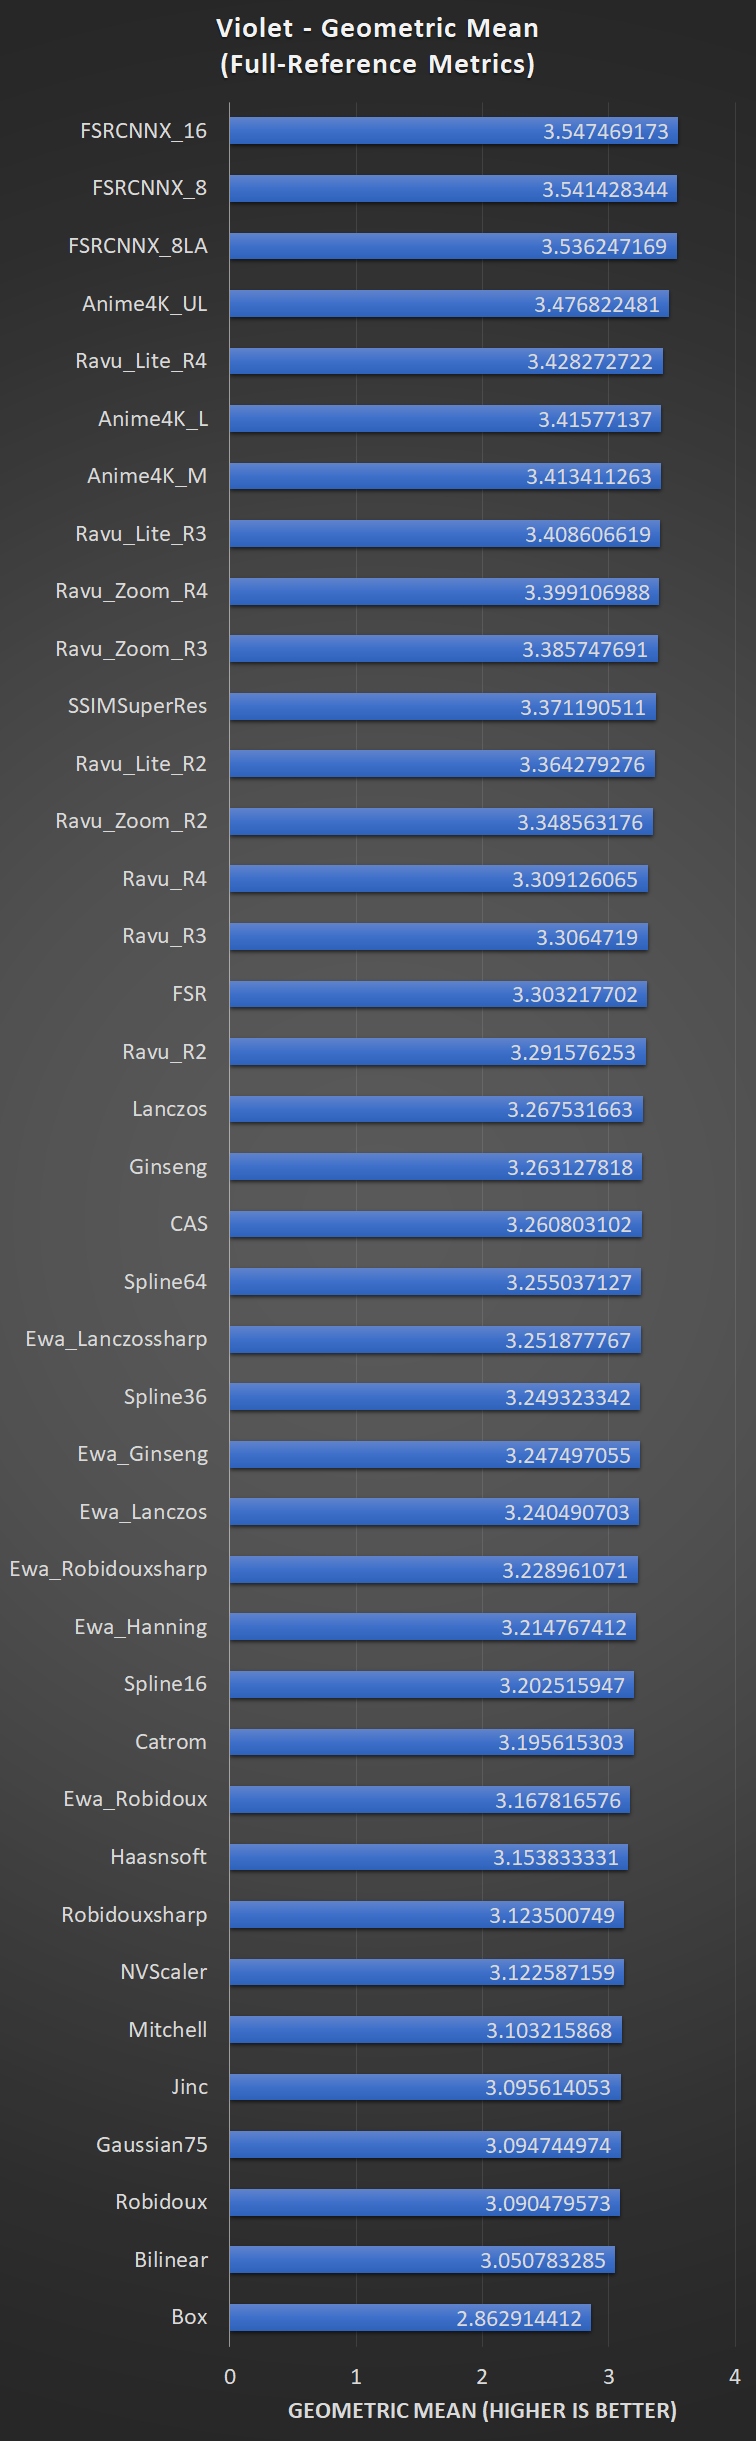
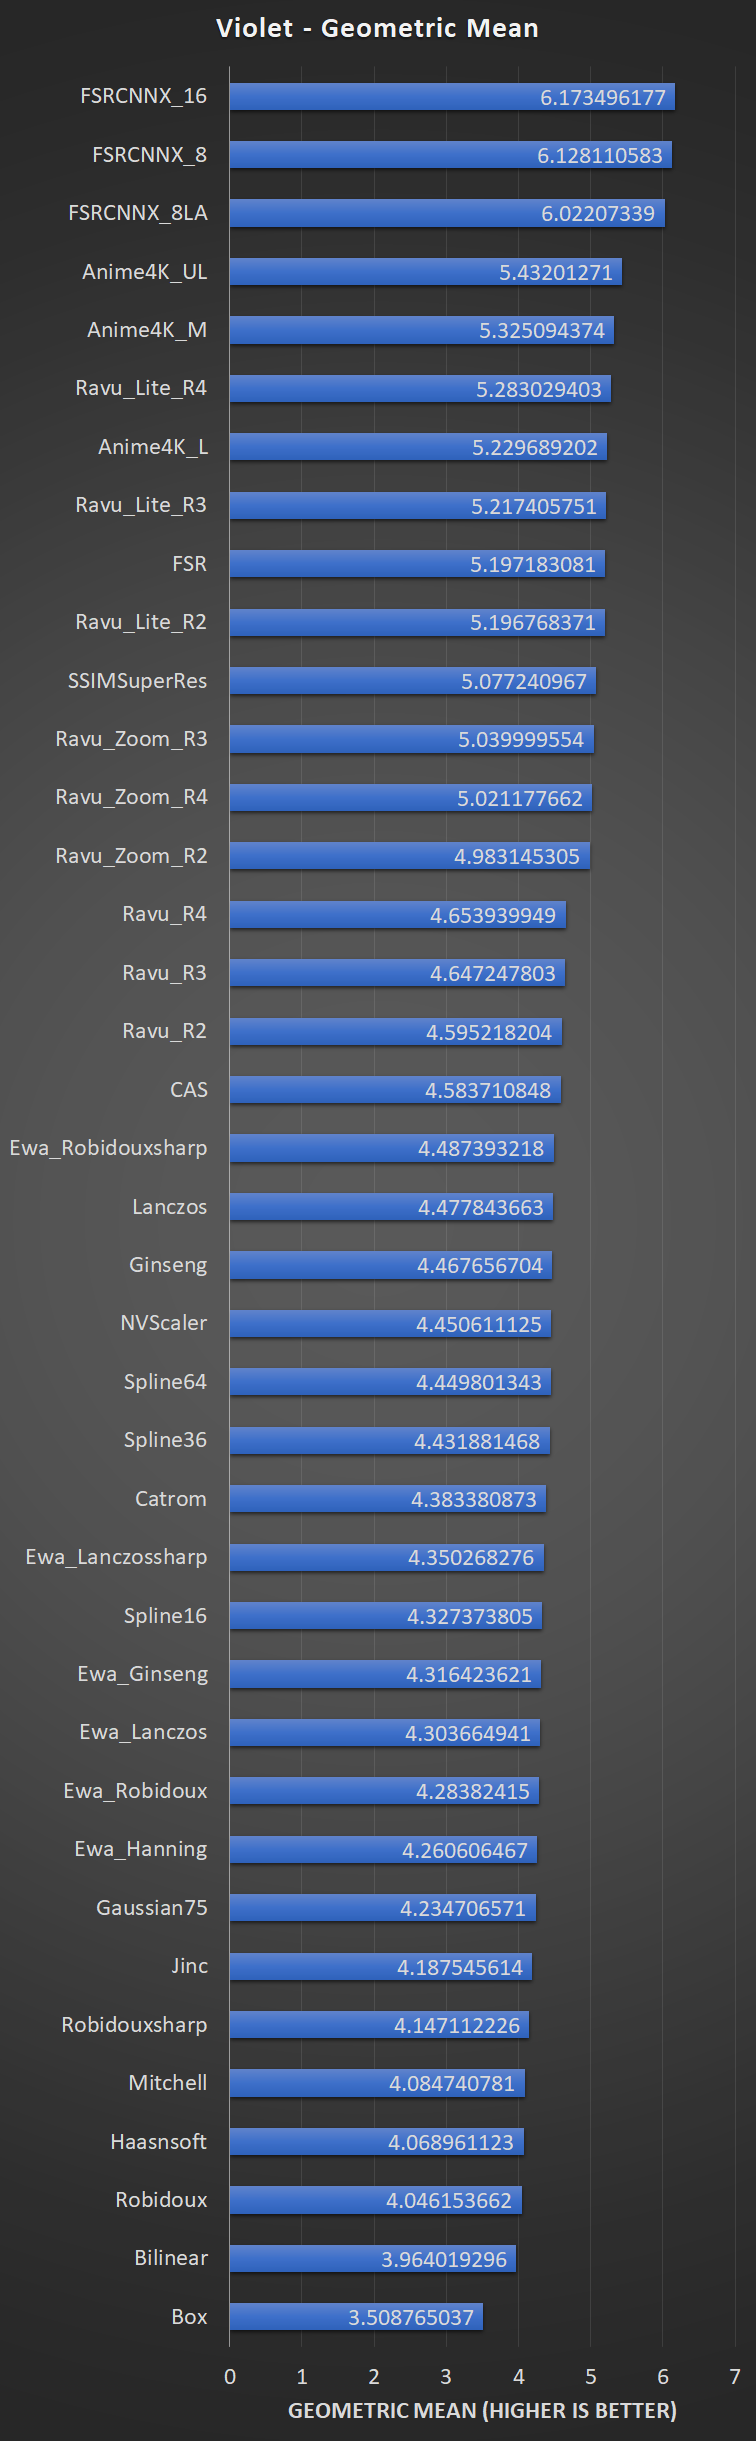
replacing NIQE with LPIPS

diff --git a/blog/mpv_upscaling.html b/blog/mpv_upscaling.html
@@ -48,9 +48,7 @@
             Like its name implies, upscaling is simply the act of increasing the scale of something. In the digital signal processing case, 
             taking discrete information in a given scale and calculating points between the existing samples. 
             The easiest and most classic way of doing this is through simple linear interpolation, if you want to find a value between two points you can simply draw a
-            line between them and linearly find any value in this line. If you wanted to find the value that's placed exactly
-            in the middle of those 2 discrete points, you could simply do an arithmetic mean with their values to find your
-            answer.
+            line between them. 
         </p>
         <p>
             Linear interpolation can be done in a plane, through both axis, creating what we call "bilinear" interpolation. Bilinear
@@ -66,7 +64,7 @@
         <p>
             A relatively simple way of taking more information into consideration is fitting a curve into more than 2 discrete points. If we connect 2 points directly and only have their values 
             to work with our end result is always going to be a straight line connecting both, but if we can also look at the other neighbouring elements we might be able to fit actual curves and 
-            therefore calculate the in-between points more accuraterly. This is implemented through convolution, using a specific kernel that represents a corresponding filter. 
+            therefore calculate the in-between points more accuraterly.
         </p>
         <p>
             <img src="./images/mpv_upscaling/interpolation.png" alt="upscaling" class="center">
@@ -104,15 +102,18 @@
             <li><a href="https://github.com/bjin/mpv-prescalers">RAVU</a></li>
             <li><a href="https://github.com/igv/FSRCNN-TensorFlow">FSRCNNX</a></li>
             <li><a href="https://github.com/bloc97/Anime4K">Anime4K</a></li>
+            <li><a href="https://gist.github.com/agyild/7e8951915b2bf24526a9343d951db214">NVScaler</a></li>
+            <li><a href="https://gist.github.com/agyild/bbb4e58298b2f86aa24da3032a0d2ee6">CAS</a></li>
+            <li><a href="https://gist.github.com/agyild/82219c545228d70c5604f865ce0b0ce5">FSR</a></li>
         </p>
         
         <h3 id="methodology">Testing methodology</h3>
-        <p>
+        <!--<p>
             Performance measurements were done upscaling an animation video encoded into 8bit AVC from 1280x720 to 2560x1440. Utilising mpv
             with a benchmarking profile, all settings from profile=gpu-hq, with Vulkan as the renderer and hardware decoding turned off. The machine used has
             an Ivy Bridge i5 3470, a Polaris RX 470 and user shaders were always compute shaders when possible. The methodology consists of letting mpv play the file for 4 seconds 
             and then seeing at which frame it stopped. 
-        </p>
+        </p>-->
         <p>
             Quality measurements were done with an anime test image. Debanding was turned off to prevent loss of fine detail.
         </p>
@@ -133,7 +134,7 @@
             "Remain as faithful to the original while enhancing details" configuration.
         </p>
         <p>
-            Since mpv writes PNGs in the rgb24 format, all screenshots were converted to greyscale using imagemagick as described above. This doesn't change how they're shown on screen, but changes them from 1920x1080x3 to 1920x1080x1.
+            Since mpv writes PNGs in the rgb24 format, all screenshots were converted to greyscale using imagemagick as described above. This doesn't change how they're shown on screen, it simply reduces the number of channels from 3 to 1.
         </p>
         <p>
             Performance was evaluated simply in frames per second, while quality was evaluated in 
@@ -143,14 +144,10 @@
             <a href="https://ece.uwaterloo.ca/~z70wang/research/iwssim/">IW-SSIM</a>,
             <a href="http://www.ponomarenko.info/psnrhma.htm">PSNR-HMA</a>,
             <a href="https://live.ece.utexas.edu/research/Quality/VIF.htm">VIF</a> and
-            <a href="http://live.ece.utexas.edu/research/Quality/nrqa.htm">NIQE</a>.
+            <a href="https://github.com/richzhang/PerceptualSimilarity">LPIPS</a>.
         </p>
         <p>
-            With the exception of NIQE, all metrics are full-reference metrics and they compare the "distorted" image to what we call the "ground truth". 
-            For more information about NIQE please refer to the <a href="https://artoriuz.github.io/blog/mpv_upscaling.html#downscaling">downscaling section</a>.
-        </p>
-        <p>
-            All metrics were calculated on Matlab using their reference implementations. PSNR-HMA has its wstep set to 7.
+            All metrics were computed using their reference implementations. PSNR-HMA has its wstep set to 7.
         </p>
         <p>
             This entire process should be easily reproducible.
@@ -191,7 +188,7 @@
                 <img src="./images/mpv_upscaling/tables/violet-ssim.png" alt="Violet results SSIM" width="378" .height="1220">
             </div>
             <div class="column">
-                <img src="./images/mpv_upscaling/tables/violet-niqe.png" alt="Violet results NIQE" width="378" .height="1220">
+                <img src="./images/mpv_upscaling/tables/violet-lpips.png" alt="Violet results LPIPS" width="378" .height="1220">
             </div>
           </div>
         <!--
@@ -225,28 +222,26 @@
         -->
         <p>
             We can clearly see that in general, machine learning based scalers tend to give better quality, though as expected they're also more computationally
-            expensive. We can see that FSRCNNX is the highest scoring mpv scaler, followed by RAVU. A previous version of this page included NNEDI3 in the charts, but it has been dropped due to poor performance. 
-            NNEDI3 can be pretty much deprecated, FSRCNNX and RAVU are both better.
+            expensive. We can see that FSRCNNX is the highest scoring mpv scaler, followed by Anime4K and then RAVU. FSR seems particularly bad in the distortion metrics, but it scores well enough in LPIPS.
         </p>
         <p>
-            Between the simple scaling filters, Lanczos performs the best in almost every single table. There are a few things to consider though, sigmoidal upscaling can reduce ringing artifacts and elliptical/cylindrical scaling is 
-            supposed to considerably reduce aliasing at the expense of being slightly blurrier. These phenomena are more visible as we increase the scaling factor, this test is not conclusive in any way whatsoever.
-        </p>
-        <p>
-            While I'm providing numerical test results to mathematically evaluate how those different algorithms perform, I strongly advise taking a look on how the upscaled images actually end up looking like. The viewer has his/her own preference regarding 
-            different drawbacks like aliasing, ringing or blurring. Some people might prefer an algorithm that scores relatively poorly when compared to sharper choices, but you should please yourself while consuming your media.  
+            Between the simple scaling filters, Lanczos seems to be the best orthogonal filter while EWA_Robidoux is the best elliptical one. 
+            As a general rule of thumb, you can expect the elliptical counterparts to produce less aliasing while being slightly blurrier. At the 2x scaling factor the differences aren't particularly drastic, 
+            and since we're using sigmoidal gamma anyway the ringing artifacts from using a "sharp" filter like Lanczos are greatly reduced.
         </p>
         <p>
             The following image is the result of a survey conducted by Don P. Mitchell and Arun N. Netravali, alongside 9 other digital image processing experts with the intention of classifying the bicubic filters 
-            through the <a href="https://en.wikipedia.org/wiki/Mitchell-Netravali_filters">B and C parameters</a>. 
+            via the <a href="https://en.wikipedia.org/wiki/Mitchell-Netravali_filters">B and C parameters</a>. 
         </p>
         <p>
             <img src="./images/mpv_upscaling/mitchell_survey.png" alt="Mitchell Netravali Survey" width="540" height="540" class="center">
         </p>
         <p>    
             The variant known as "Mitchell-Netravali" nowadays is the filter you get with B=C=1/3, and it is mpv's <inline_code>--profile=gpu-hq</inline_code> default downscaler. 
-            Likewise, Imagemagick defaults to mitchell when you're upscaling or downscaling an image with transparency (it uses lanczos when there's no alpha channel). 
-            Note that those choices are subjective, the developers did not choose Mitchell based on mathematical measurements and you should do the same.
+        </p>
+        <p>
+            I didn't exactly expect the "numerically better" filters to actually match subjective choices, 
+            but Imagemagick's default orthogonal resampling filter is Lanczos for images without transparency. Likewise, Imagemagick uses Robidoux by default for distortion operations.
         </p>
     </section>
     <section>
@@ -588,6 +583,9 @@
     </section>
     <section>
         <h3 id="changelog">Changelog</h3>
+        <p>
+            21/03/2022: Replacing NIQE with LPIPS in the upscaling test, LPIPS is a perception-based full-reference image quality metric. 
+        </p>
         <p>
             20/03/2022: Adding FSR, CAS and NVScaler. Fractional comparisons still missing (and I'm not exactly sure if I care enough to add them). 
             I'm also hiding the live-action results from the page since these haven't been updated in ages.
